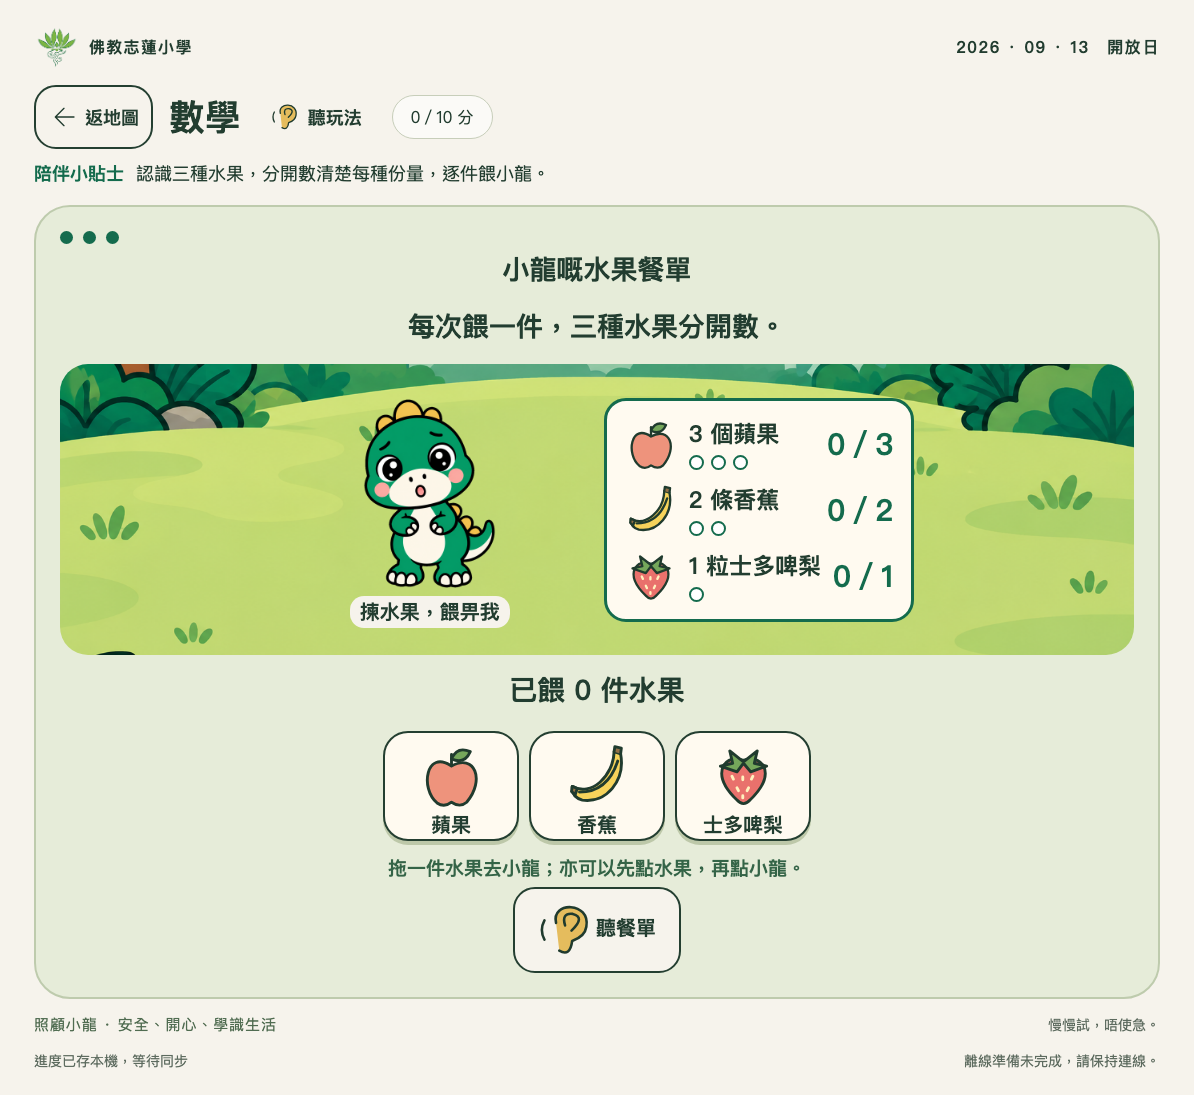
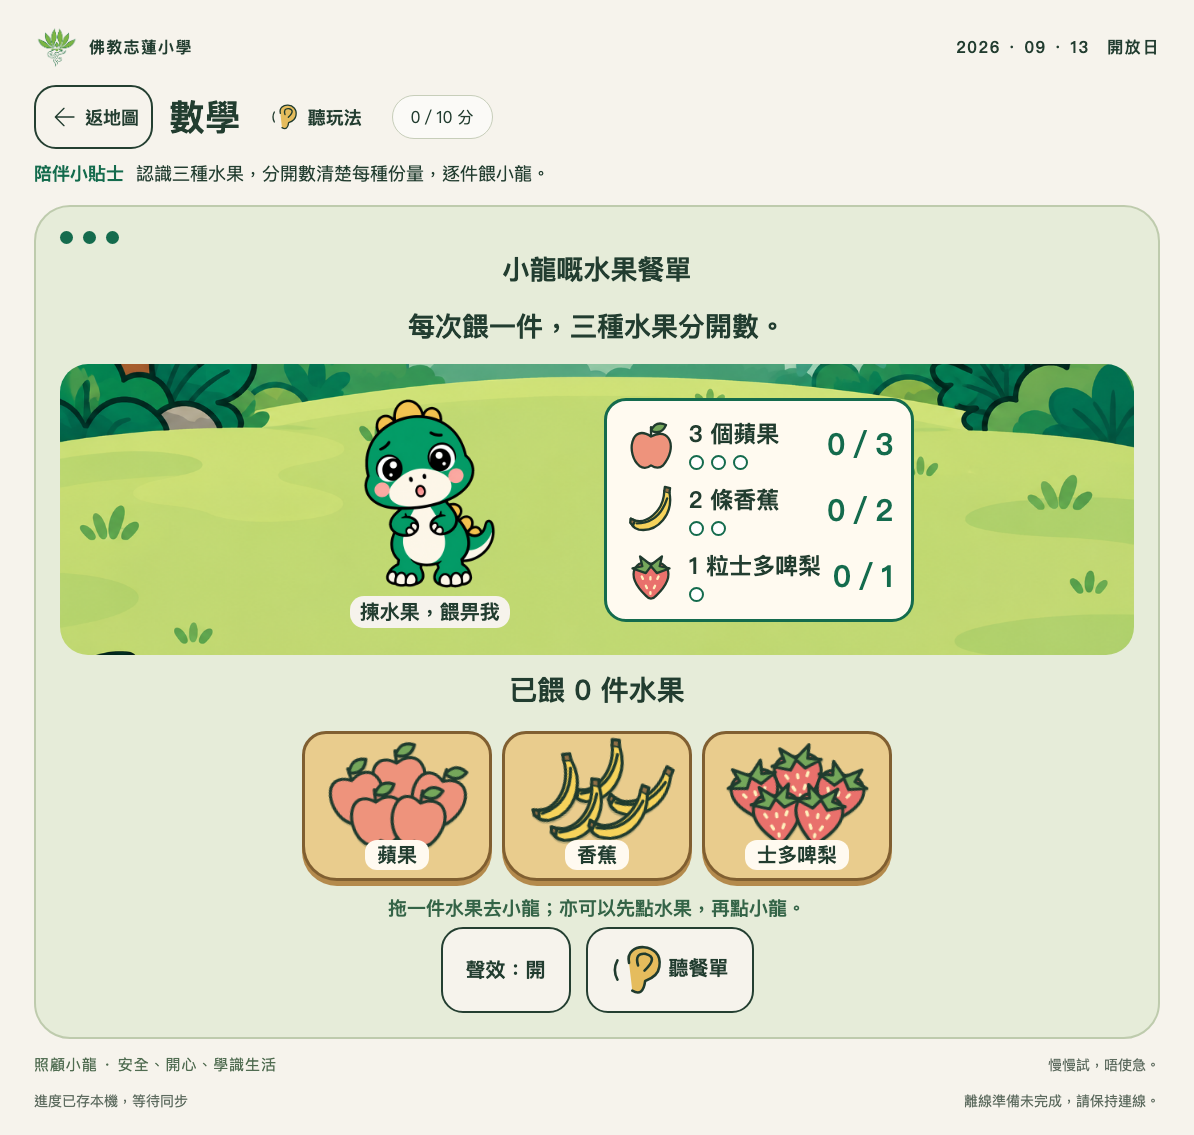
Add shrinking fruit piles and playful feeding sound effects

diff --git a/hub/modules/math.js b/hub/modules/math.js
@@ -6,16 +6,31 @@ const fruits=[['apple','蘋果','個'],['banana','香蕉','條'],['strawberry','
 const orders=[[1,1,1],[2,1,3],[3,2,1]];
 export function mountMath(root,state,save,finish){
  state.round??=0;state.recognized??=0;state.served??=[0,0,0];state.attempts??=0;
- let selected=null,drag=null,ghost=null,live=true,suppressClick=false;
+ let selected=null,drag=null,ghost=null,live=true,suppressClick=false,audio=null,effectTimer=null,soundOn=true;
  const feedback=text=>{root.querySelector('.feedback').textContent=text;};
  const recognizing=()=>state.recognized<3;
  const complete=()=>state.served.every((n,i)=>n===orders[state.round][i]);
  function cancel(){drag=null;ghost?.remove();ghost=null;selected=null;root.querySelectorAll('.chosen').forEach(n=>n.classList.remove('chosen'));}
  function listen(){return playVoice(new URL(`../audio/yue/math/${recognizing()?fruits[state.recognized][0]:'order-'+state.round}.wav`,import.meta.url));}
+ function sound(kind){
+  if(!soundOn||!live||document.hidden)return;
+  try{audio??=new (window.AudioContext||window.webkitAudioContext)();const context=audio;context.resume().then(()=>{
+   if(!live||!soundOn||document.hidden||audio!==context)return;
+   const notes=kind==='full'?[523,659,784]:kind==='enough'?[330]:[659,880];
+   notes.forEach((hz,i)=>{const o=audio.createOscillator(),g=audio.createGain(),t=audio.currentTime+i*.09;o.type='sine';o.frequency.setValueAtTime(hz,t);g.gain.setValueAtTime(0,t);g.gain.linearRampToValueAtTime(.09,t+.012);g.gain.exponentialRampToValueAtTime(.001,t+.16);o.connect(g);g.connect(audio.destination);o.start(t);o.stop(t+.18);o.onended=()=>{o.disconnect();g.disconnect();};});
+  }).catch(()=>{});}catch{}
+ }
+ function munch(fruit){
+  const target=root.querySelector('[data-dino]'),picture=target.querySelector('img'),prior=picture.src;
+  picture.src='img/chars/dino-baby-eat.png';target.classList.add('fruit-munch');
+  const bite=document.createElement('span');bite.className='fruit-bite';bite.innerHTML=icon(fruit);target.append(bite);
+  clearTimeout(effectTimer);effectTimer=setTimeout(()=>{if(!live)return;bite.remove();target.classList.remove('fruit-munch');picture.src=prior;},480);
+ }
  function render(){
-  cancel();const intro=recognizing(),done=!intro&&complete(),order=orders[state.round];
-  root.innerHTML=`<div class="rounds" aria-label="${intro?'先認識三種水果':`第 ${state.round+1} 張餐單，共三張`}">${orders.map((_,i)=>`<span class="round-dot ${!intro&&i<=state.round?'done':''}"></span>`).join('')}</div><h2 class="game-instruction">${intro?'認識水果朋友':'小龍嘅水果餐單'}</h2><p class="game-instruction">${intro?`搵一搵：邊個係${fruits[state.recognized][1]}？`:'每次餵一件，三種水果分開數。'}</p><div class="fruit-meal"><button class="feeding-dino" data-dino="0" ${intro?'disabled':''} aria-label="餵小龍一件水果"><img class="character" src="img/${done?'chars/dino-baby-eat':'games/math/dino-hungry'}.png" alt="${done?'小龍食到啱啱好嘅水果':'等緊食水果嘅小龍'}"><span>${intro?'一齊認水果':done?'份量啱啱好！':'揀水果，餵畀我'}</span></button><div class="fruit-order" aria-label="小龍想食嘅水果份量">${intro?`<p>蘋果、香蕉、士多啤梨</p><p>已認識 ${state.recognized}／3 種</p>`:fruits.map(([id,name,unit],i)=>`<div class="fruit-order-row ${state.served[i]===order[i]?'fruit-enough':''}" data-order="${id}">${icon(id)}<div><strong>${order[i]} ${unit}${name}</strong><div class="fruit-dots" aria-hidden="true">${Array.from({length:order[i]},(_,n)=>`<span class="${n<state.served[i]?'filled':''}"></span>`).join('')}</div></div><span class="fruit-tally" aria-label="${name}已餵 ${state.served[i]}，需要 ${order[i]}">${state.served[i]}／${order[i]}</span></div>`).join('')}</div></div><p class="feeding-count" aria-live="polite">${intro?'先認識，再數數':done?'三種水果都夠數啦！':`已餵 ${state.served.reduce((a,b)=>a+b,0)} 件水果`}</p><div class="choices feeding-food fruit-food" aria-label="三種水果，每次取一件">${fruits.map(([id,name])=>`<button class="choice" data-food="${id}" aria-label="${name}" ${done?'disabled':''}>${icon(id)}<span>${name}</span></button>`).join('')}</div><p class="feedback" role="status">${intro?'聽一聽，點選啱嘅水果。':done?'數清楚每種份量，小龍食得開心又舒服！':'拖一件水果去小龍；亦可以先點水果，再點小龍。'}</p><div class="actions"><button id="fruit-listen">${icon('ear')}聽${intro?'水果名':'餐單'}</button>${!done&&hintLevel(state.attempts)==='guided'?'<button id="feeding-help">一齊睇提示</button>':''}${done?`<button class="primary" id="feeding-next">${state.round===2?'完成照顧任務':'下一張餐單'}</button>`:''}</div>`;
+  clearTimeout(effectTimer);cancel();const intro=recognizing(),done=!intro&&complete(),order=orders[state.round];
+  root.innerHTML=`<div class="rounds" aria-label="${intro?'先認識三種水果':`第 ${state.round+1} 張餐單，共三張`}">${orders.map((_,i)=>`<span class="round-dot ${!intro&&i<=state.round?'done':''}"></span>`).join('')}</div><h2 class="game-instruction">${intro?'認識水果朋友':'小龍嘅水果餐單'}</h2><p class="game-instruction">${intro?`搵一搵：邊個係${fruits[state.recognized][1]}？`:'每次餵一件，三種水果分開數。'}</p><div class="fruit-meal"><button class="feeding-dino" data-dino="0" ${intro?'disabled':''} aria-label="餵小龍一件水果"><img class="character" src="img/${done?'chars/dino-baby-eat':'games/math/dino-hungry'}.png" alt="${done?'小龍食到啱啱好嘅水果':'等緊食水果嘅小龍'}"><span>${intro?'一齊認水果':done?'份量啱啱好！':'揀水果，餵畀我'}</span></button><div class="fruit-order" aria-label="小龍想食嘅水果份量">${intro?`<p>蘋果、香蕉、士多啤梨</p><p>已認識 ${state.recognized}／3 種</p>`:fruits.map(([id,name,unit],i)=>`<div class="fruit-order-row ${state.served[i]===order[i]?'fruit-enough':''}" data-order="${id}">${icon(id)}<div><strong>${order[i]} ${unit}${name}</strong><div class="fruit-dots" aria-hidden="true">${Array.from({length:order[i]},(_,n)=>`<span class="${n<state.served[i]?'filled':''}"></span>`).join('')}</div></div><span class="fruit-tally" aria-label="${name}已餵 ${state.served[i]}，需要 ${order[i]}">${state.served[i]}／${order[i]}</span></div>`).join('')}</div></div><p class="feeding-count" aria-live="polite">${intro?'先認識，再數數':done?'三種水果都夠數啦！':`已餵 ${state.served.reduce((a,b)=>a+b,0)} 件水果`}</p><div class="choices feeding-food fruit-food" aria-label="三種水果，每次取一件">${fruits.map(([id,name],i)=>`<button class="choice" data-food="${id}" aria-label="${name}" ${done?'disabled':''}><span class="fruit-pile" aria-hidden="true">${Array.from({length:intro?5:5-state.served[i]},(_,n)=>icon(id,`pile-piece piece-${n}`)).join('')}</span><span class="fruit-basket-label">${name}</span></button>`).join('')}</div><p class="feedback" role="status">${intro?'聽一聽，點選啱嘅水果。':done?'數清楚每種份量，小龍食得開心又舒服！':'拖一件水果去小龍；亦可以先點水果，再點小龍。'}</p><div class="actions"><button id="fruit-sound" aria-pressed="${soundOn}">${soundOn?'聲效：開':'聲效：關'}</button><button id="fruit-listen">${icon('ear')}聽${intro?'水果名':'餐單'}</button>${!done&&hintLevel(state.attempts)==='guided'?'<button id="feeding-help">一齊睇提示</button>':''}${done?`<button class="primary" id="feeding-next">${state.round===2?'完成照顧任務':'下一張餐單'}</button>`:''}</div>`;
   root.querySelector('#fruit-listen').onclick=listen;
+  root.querySelector('#fruit-sound').onclick=()=>{soundOn=!soundOn;if(!soundOn){audio?.close().catch(()=>{});audio=null;}render();};
   for(const button of root.querySelectorAll('[data-food]')){
    const index=fruits.findIndex(f=>f[0]===button.dataset.food);
    const choose=()=>{if(button.disabled)return;selected=index;root.querySelectorAll('.chosen').forEach(n=>n.classList.remove('chosen'));button.classList.add('chosen');};
@@ -34,10 +49,10 @@ export function mountMath(root,state,save,finish){
   if(!live||recognizing()||complete())return;
   if(selected===null){feedback('先揀一件水果，再點小龍。');return;}
   const i=selected,[,name,unit]=fruits[i];
-  if(state.served[i]>=orders[state.round][i]){state.attempts++;save();render();feedback(`${name}已經夠數啦，睇吓另一種仲欠幾多。`);return;}
-  state.served[i]++;save();render();feedback(complete()?'三種水果都啱啱好，小龍食得開心又舒服！':`${name}：${state.served[i]} ${unit}，要 ${orders[state.round][i]} ${unit}。`);
+  if(state.served[i]>=orders[state.round][i]){state.attempts++;save();render();sound('enough');feedback(`${name}已經夠數啦，睇吓另一種仲欠幾多。`);return;}
+  state.served[i]++;save();render();sound(complete()?'full':'bite');munch(fruits[i][0]);feedback(complete()?'三種水果都啱啱好，小龍食得開心又舒服！':`${name}：${state.served[i]} ${unit}，要 ${orders[state.round][i]} ${unit}。`);
  }
- const background=()=>{if(document.hidden)cancel();};
+ const background=()=>{if(document.hidden){cancel();audio?.close().catch(()=>{});audio=null;}};
  document.addEventListener('visibilitychange',background);render();
- return()=>{live=false;cancel();stopVoice();document.removeEventListener('visibilitychange',background);};
+ return()=>{live=false;clearTimeout(effectTimer);cancel();audio?.close().catch(()=>{});stopVoice();document.removeEventListener('visibilitychange',background);};
 }

diff --git a/sw.js b/sw.js
@@ -1,5 +1,5 @@
 // Generated precache manifest. Rebuild whenever local assets change.
-const CACHE='dino-island-0f9a431ad566';
+const CACHE='dino-island-6675f091bb8d';
 const BASE=new URL('./',self.location.href);
 const ASSETS=["board/board.css","board/board.js","board/img/board-skin.png","board/index.html","hub/app.js","hub/audio/en/actions/freeze.wav","hub/audio/en/actions/hands.wav","hub/audio/en/actions/jump.wav","hub/audio/en/actions/left.wav","hub/audio/en/actions/right.wav","hub/audio/en/actions/sit.wav","hub/audio/en/actions/stand.wav","hub/audio/yue/actions/freeze.wav","hub/audio/yue/actions/hands.wav","hub/audio/yue/actions/left.wav","hub/audio/yue/actions/right.wav","hub/audio/yue/actions/sit.wav","hub/audio/yue/characters/fire.wav","hub/audio/yue/characters/moon.wav","hub/audio/yue/characters/mountain.wav","hub/audio/yue/characters/sun.wav","hub/audio/yue/characters/water.wav","hub/audio/yue/characters/wood.wav","hub/audio/yue/common/complete.wav","hub/audio/yue/common/hint.wav","hub/audio/yue/common/retry.wav","hub/audio/yue/common/welcome.wav","hub/audio/yue/intro/art.wav","hub/audio/yue/intro/chinese.wav","hub/audio/yue/intro/computing.wav","hub/audio/yue/intro/english.wav","hub/audio/yue/intro/general.wav","hub/audio/yue/intro/humanities.wav","hub/audio/yue/intro/mandarin.wav","hub/audio/yue/intro/math.wav","hub/audio/yue/intro/music.wav","hub/audio/yue/intro/pe.wav","hub/audio/yue/intro/science.wav","hub/audio/yue/math/apple.wav","hub/audio/yue/math/banana.wav","hub/audio/yue/math/order-0.wav","hub/audio/yue/math/order-1.wav","hub/audio/yue/math/order-2.wav","hub/audio/yue/math/strawberry.wav","hub/audio/zh-CN/greetings/goodbye.wav","hub/audio/zh-CN/greetings/hello.wav","hub/audio/zh-CN/greetings/morning.wav","hub/audio/zh-CN/greetings/please.wav","hub/audio/zh-CN/greetings/thanks.wav","hub/audio/zh-CN/greetings/welcome.wav","hub/certificate.js","hub/games.js","hub/img/chars/dino-baby-eat.png","hub/img/chars/dino-baby-sleep.png","hub/img/chars/dino-baby.png","hub/img/chars/landmark-hatch.png","hub/img/chars/landmark-longneck.png","hub/img/chars/landmark-triceratops.png","hub/img/chars/xiaolian-clap.png","hub/img/chars/xiaolian-color.png","hub/img/chars/xiaolian-highfive.png","hub/img/chars/xiaolian-point.png","hub/img/chars/xiaolian-welcome.png","hub/img/chars/xiaolian-write.png","hub/img/chars/xiaozhi-highfive.png","hub/img/chars/xiaozhi-jump.png","hub/img/chars/xiaozhi-run.png","hub/img/chars/xiaozhi-sit.png","hub/img/chars/xiaozhi-step.png","hub/img/chars/xiaozhi-stretch.png","hub/img/chars/xiaozhi-tablet.png","hub/img/chars/xiaozhi-welcome.png","hub/img/games/art/dino-hatching.png","hub/img/games/art/egg-studio.png","hub/img/games/art/xiaozhi-surprised.png","hub/img/games/chinese/dino-drinking.png","hub/img/games/chinese/dino-walking.png","hub/img/games/chinese/mountain.png","hub/img/games/chinese/river.png","hub/img/games/chinese/volcano.png","hub/img/games/computing/coding-garden.png","hub/img/games/computing/dino-robot.png","hub/img/games/english/dino-celebrate.png","hub/img/games/english/dino-hands-up.png","hub/img/games/english/dino-jump.png","hub/img/games/english/dino-left.png","hub/img/games/english/dino-right.png","hub/img/games/english/dino-squat.png","hub/img/games/general/bedtime.png","hub/img/games/general/daytime.png","hub/img/games/general/dino-playing.png","hub/img/games/general/dino-waking.png","hub/img/games/general/dino-washing.png","hub/img/games/general/morning.png","hub/img/games/humanities/river-centre.png","hub/img/games/humanities/safe-forest.png","hub/img/games/humanities/volcano-edge.png","hub/img/games/humanities/xiaolian-explorer.png","hub/img/games/humanities/xiaozhi-explorer.png","hub/img/games/mandarin/dino-goodbye.png","hub/img/games/mandarin/dino-greeting.png","hub/img/games/mandarin/dino-listening.png","hub/img/games/mandarin/dino-thanks.png","hub/img/games/mandarin/village.png","hub/img/games/math/dino-hungry.png","hub/img/games/math/feeding-garden.png","hub/img/games/math/friend-longneck.png","hub/img/games/math/friend-triceratops.png","hub/img/games/music/dino-drum.png","hub/img/games/music/music-stage.png","hub/img/games/music/xiaolian-bell.png","hub/img/games/music/xiaozhi-percussion.png","hub/img/games/pe/dino-coach.png","hub/img/games/pe/forest-arena.png","hub/img/games/pe/forest-visitor.png","hub/img/games/science/excavation.png","hub/img/games/science/xiaolian-scientist.png","hub/img/games/science/xiaozhi-scientist.png","hub/img/map/island-path.png","hub/img/ui/cert-frame.png","hub/index.html","hub/modules/art.js","hub/modules/chinese-scenes.js","hub/modules/computing.js","hub/modules/fossil-art.js","hub/modules/general.js","hub/modules/humanities.js","hub/modules/mandarin.js","hub/modules/math.js","hub/modules/motion.js","hub/modules/music.js","hub/modules/pe-scene.js","hub/modules/science.js","hub/park-guides.js","index.html","setup/audio-review.html","setup/index.html","shared/certificate-link.js","shared/config.js","shared/core.js","shared/game-clock-gate.js","shared/game-state.js","shared/icons.js","shared/img/school-logo.png","shared/models/pose-landmarker-lite-v1.task","shared/network.js","shared/offline.js","shared/pose-actions.js","shared/pose-camera.js","shared/qrcode.js","shared/recorder.js","shared/sequence.js","shared/storage.js","shared/style.css","shared/vendor/mediapipe/vision-bundle.js","shared/vendor/mediapipe/wasm/vision_wasm_internal.js","shared/vendor/mediapipe/wasm/vision_wasm_internal.wasm","shared/vendor/mediapipe/wasm/vision_wasm_nosimd_internal.js","shared/vendor/mediapipe/wasm/vision_wasm_nosimd_internal.wasm","shared/voice.js","hub/","board/","setup/"].map(p=>new URL(p,BASE).href);
 self.addEventListener('install',e=>e.waitUntil(caches.open(CACHE).then(c=>c.addAll(ASSETS))));

diff --git a/shared/style.css b/shared/style.css
@@ -138,3 +138,4 @@
 @media(max-width:600px){.expedition-camp{display:grid;grid-template-columns:repeat(2,minmax(0,1fr));justify-items:center}.expedition-camp>.character{grid-row:1;width:120px;height:140px}.expedition-camp>.expedition-guide{width:140px;height:140px}.expedition-improvements{grid-row:2;grid-column:1/-1}}
 .fossil-briefing{display:flex;align-items:center;justify-content:center;gap:12px;max-width:780px;margin:0 auto 12px}.fossil-briefing>.fossil-guide{width:140px;height:140px;flex-shrink:0}.fossil-briefing>.game-instruction{margin:0;text-align:left}
 @media(max-width:600px){.fossil-briefing{gap:4px}.fossil-briefing>.fossil-guide{width:96px;height:110px}.fossil-briefing>.game-instruction{font-size:20px}}
+.fruit-food .choice{width:190px;height:150px;padding:4px 8px 8px;background:#e9cc8d;border:3px solid #805f31;border-radius:24px 24px 35px 35px;box-shadow:0 5px 0 #b48a4c;overflow:visible}.fruit-pile{display:block;position:relative;width:165px;height:106px;pointer-events:none}.fruit-food .fruit-pile .icon{position:absolute;width:70px;height:70px;filter:drop-shadow(0 2px 0 #203b2e33)}.fruit-pile .piece-0{left:48px;top:0;transform:rotate(-8deg)}.fruit-pile .piece-1{left:5px;top:17px;transform:rotate(-19deg)}.fruit-pile .piece-2{right:5px;top:18px;transform:rotate(17deg)}.fruit-pile .piece-3{left:27px;top:39px;transform:rotate(-7deg)}.fruit-pile .piece-4{right:26px;top:40px;transform:rotate(9deg)}.fruit-basket-label{background:#fffaf0;border-radius:12px;padding:1px 12px;position:relative}.fruit-meal .feeding-dino{position:relative}.fruit-munch .character{animation:fruit-chomp .45s ease}.fruit-bite{position:absolute;left:50%;top:32%;pointer-events:none;animation:fruit-bite .45s ease-in forwards}.fruit-bite .icon{width:65px;height:65px}@keyframes fruit-chomp{25%{transform:rotate(-5deg) scale(1.06)}65%{transform:rotate(4deg) scale(1.03)}}@keyframes fruit-bite{from{opacity:1;transform:translate(-50%,70px) scale(1)}to{opacity:0;transform:translate(-50%,-5px) scale(.2)}}@media(max-width:600px){.fruit-food{gap:7px}.fruit-food .choice{width:100px;min-width:90px;height:120px;padding:4px}.fruit-pile{width:85px;height:78px}.fruit-food .fruit-pile .icon{width:46px;height:46px}.fruit-pile .piece-0{left:20px;top:0}.fruit-pile .piece-1{left:0;top:15px}.fruit-pile .piece-2{right:0;top:16px}.fruit-pile .piece-3{left:9px;top:31px}.fruit-pile .piece-4{right:8px;top:32px}.fruit-basket-label{padding:1px 4px;font-size:16px}}

diff --git a/docs/MATH-FRUIT-UPDATE.md b/docs/MATH-FRUIT-UPDATE.md
@@ -4,6 +4,8 @@
 
 先逐種點選辨認水果；錯選可再試。之後三張餐單分別要求（蘋果／香蕉／士多啤梨）：1／1／1、2／1／3、3／2／1。可自由決定餵食次序，每次拖一件，亦可先點水果再點小龍。每種有獨立數字及圓點，夠數後再餵不計入，不扣分。三種都剛好才可下一張。
 
+同日追加：下方改為三堆水果，各有五件；每成功餵一件，該堆減少一件，下一張餐單補滿。拖動只帶走一件圖示。成功有短促雙音及小龍食水果動作，全部夠數有三音完成聲；超量只有柔和提示，不減水果或扣分。聲效可獨立開關，使用本機 Web Audio，不需網絡。離開／切背景會關閉聲效引擎。`tests/math-feedback-browser.mjs` 驗證堆數、聲音節點啟動、靜音、動畫及清理；觸控拖放／取消測試亦通過。畫面見 `screenshots/math-fruit-piles.png`。
+
 水果圖示為原創 SVG；沿用已批准的小龍和花園。新增六段粵語水果名／餐單語音，更新原玩法介紹；全部本機可離線播放，合成讀音仍可由老師在試聽頁核對。
 
 未完成的舊版數學進度轉為新版第一回合，保留累積時間；已完成科目及成績不改。想重試新版可從示範頁或「下一位探險家」開始。
